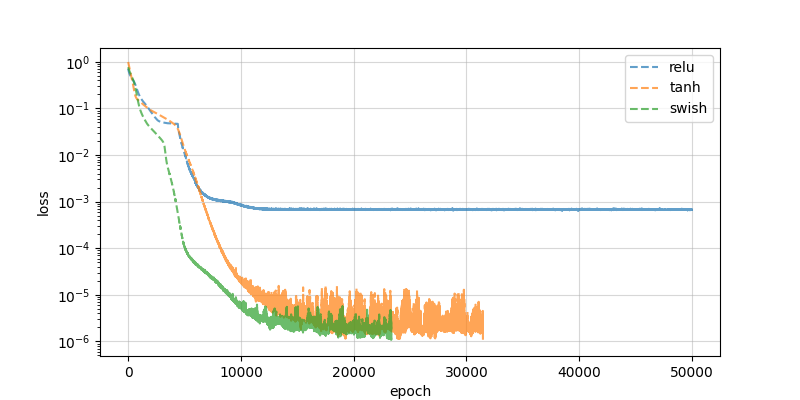
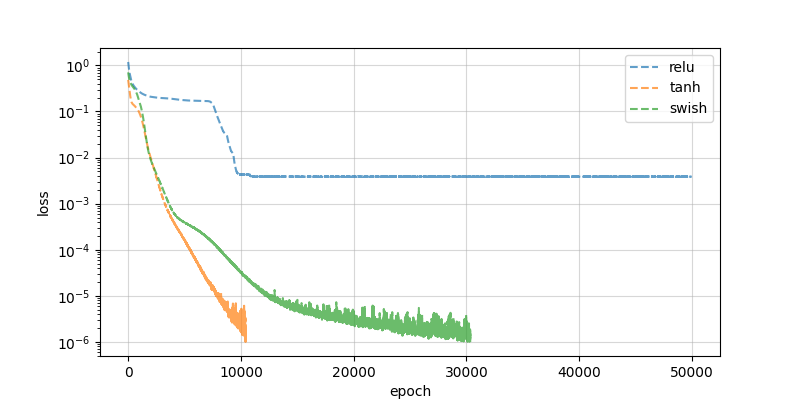
fix main

diff --git a/00_tf2/main.py b/00_tf2/main.py
@@ -17,7 +17,7 @@ def main():
     config_gpu(gpu_flg)
 
     # problem setup
-    p_id = 0
+    p_id = 1
     xmin = -1.
     xmax =  1.
     nx   = 2 ** 8
@@ -57,7 +57,21 @@ def main():
     else:
         raise NotImplementedError(">>>>> p_id")
 
-    # define, train, and infer with relu model
+    # define, train, and infer with tanh model
+    w_init = "Glorot"
+    act = "tanh"
+    model_tanh = DNN(
+        x_train, y_train, 
+        f_in, f_out, f_hid, depth, 
+        w_init, b_init, act, 
+        lr, opt, f_scl, 
+        d_type, r_seed
+    )
+    with tf.device("/device:GPU:0"):
+        model_tanh.train(n_epc, n_btc, c_tol)
+    y_tanh = model_tanh.infer(x_infer)
+
+    # relu model
     w_init = "He"
     act = "relu"
     model_relu = DNN(
@@ -71,20 +85,6 @@ def main():
         model_relu.train(n_epc, n_btc, c_tol)
     # model_relu.save("./saved_model/model_relu")
     y_relu = model_relu.infer(x_infer)
-
-    # tanh model
-    w_init = "Glorot"
-    act = "tanh"
-    model_tanh = DNN(
-        x_train, y_train, 
-        f_in, f_out, f_hid, depth, 
-        w_init, b_init, act, 
-        lr, opt, f_scl, 
-        d_type, r_seed
-    )
-    with tf.device("/device:GPU:0"):
-        model_tanh.train(n_epc, n_btc, c_tol)
-    y_tanh = model_tanh.infer(x_infer)
 
     # swish model
     w_init = "He"
@@ -105,8 +105,8 @@ def main():
         plt.figure(figsize=(6, 6))
         plt.plot(x, y, label="function", alpha=.3, linestyle="-", lw = 5, c="k")
         plt.scatter(x_train, y_train, alpha=.7, marker="x", c="r")
-        plt.plot(x_infer, y_relu, label="relu", alpha=.7, linestyle="--")
         plt.plot(x_infer, y_tanh, label="tanh", alpha=.7, linestyle="--")
+        plt.plot(x_infer, y_relu, label="relu", alpha=.7, linestyle="--")
         plt.plot(x_infer, y_swish, label="swish", alpha=.7, linestyle="--")
         plt.xlabel("x")
         plt.ylabel("y")
@@ -117,8 +117,8 @@ def main():
         plt.savefig("./figures/approx_problem" + str(p_id) + ".png")
 
         plt.figure(figsize=(8, 4))
-        plt.plot(model_relu.loss_log, label="relu", alpha=.7, linestyle="--")
         plt.plot(model_tanh.loss_log, label="tanh", alpha=.7, linestyle="--")
+        plt.plot(model_relu.loss_log, label="relu", alpha=.7, linestyle="--")
         plt.plot(model_swish.loss_log, label="swish", alpha=.7, linestyle="--")
         plt.xlabel("epoch")
         plt.ylabel("loss")
@@ -131,8 +131,8 @@ def main():
         plt.figure(figsize=(6, 6))
         plt.plot(x, y, label="function", alpha=.3, linestyle="-", lw = 5, c="k")
         plt.scatter(x_train, y_train, alpha=.7, marker="x", c="r")
-        plt.plot(x_infer, y_relu, label="relu", alpha=.7, linestyle="--")
         plt.plot(x_infer, y_tanh, label="tanh", alpha=.7, linestyle="--")
+        plt.plot(x_infer, y_relu, label="relu", alpha=.7, linestyle="--")
         plt.plot(x_infer, y_swish, label="swish", alpha=.7, linestyle="--")
         plt.xlabel("x")
         plt.ylabel("y")
@@ -143,8 +143,8 @@ def main():
         plt.savefig("./figures/approx_problem" + str(p_id) + ".png")
 
         plt.figure(figsize=(8, 4))
-        plt.plot(model_relu.loss_log, label="relu", alpha=.7, linestyle="--")
         plt.plot(model_tanh.loss_log, label="tanh", alpha=.7, linestyle="--")
+        plt.plot(model_relu.loss_log, label="relu", alpha=.7, linestyle="--")
         plt.plot(model_swish.loss_log, label="swish", alpha=.7, linestyle="--")
         plt.xlabel("epoch")
         plt.ylabel("loss")
@@ -157,8 +157,8 @@ def main():
         plt.figure(figsize=(6, 6))
         plt.plot(x, y, label="function", alpha=.3, linestyle="-", lw = 5, c="k")
         plt.scatter(x_train, y_train, alpha=.7, marker="x", c="r")
-        plt.plot(x_infer, y_relu, label="relu", alpha=.7, linestyle="--")
         plt.plot(x_infer, y_tanh, label="tanh", alpha=.7, linestyle="--")
+        plt.plot(x_infer, y_relu, label="relu", alpha=.7, linestyle="--")
         plt.plot(x_infer, y_swish, label="swish", alpha=.7, linestyle="--")
         plt.xlabel("x")
         plt.ylabel("y")
@@ -169,8 +169,8 @@ def main():
         plt.savefig("./figures/approx_problem" + str(p_id) + ".png")
 
         plt.figure(figsize=(8, 4))
-        plt.plot(model_relu.loss_log, label="relu", alpha=.7, linestyle="--")
         plt.plot(model_tanh.loss_log, label="tanh", alpha=.7, linestyle="--")
+        plt.plot(model_relu.loss_log, label="relu", alpha=.7, linestyle="--")
         plt.plot(model_swish.loss_log, label="swish", alpha=.7, linestyle="--")
         plt.xlabel("epoch")
         plt.ylabel("loss")

diff --git a/00_tf2/functions.py b/00_tf2/functions.py
@@ -16,13 +16,11 @@ def func0_tf(x):
 
 def func1(x):
     y = .6 * np.sin(np.pi * x) \
-        + .3 * np.sin(2. * np.pi * x) \
-        + .1 * np.cos(8. * np.pi * x)
+        + .4 * np.sin(4. * np.pi * x)
     return y
 def func1_tf(x):
     y = .6 * tf.sin(np.pi * x) \
-        + .3 * tf.sin(2. * np.pi * x) \
-        + .1 * tf.cos(8. * np.pi * x)
+        + .4 * tf.sin(4. * np.pi * x)
     return y
 
 def func2(x):
